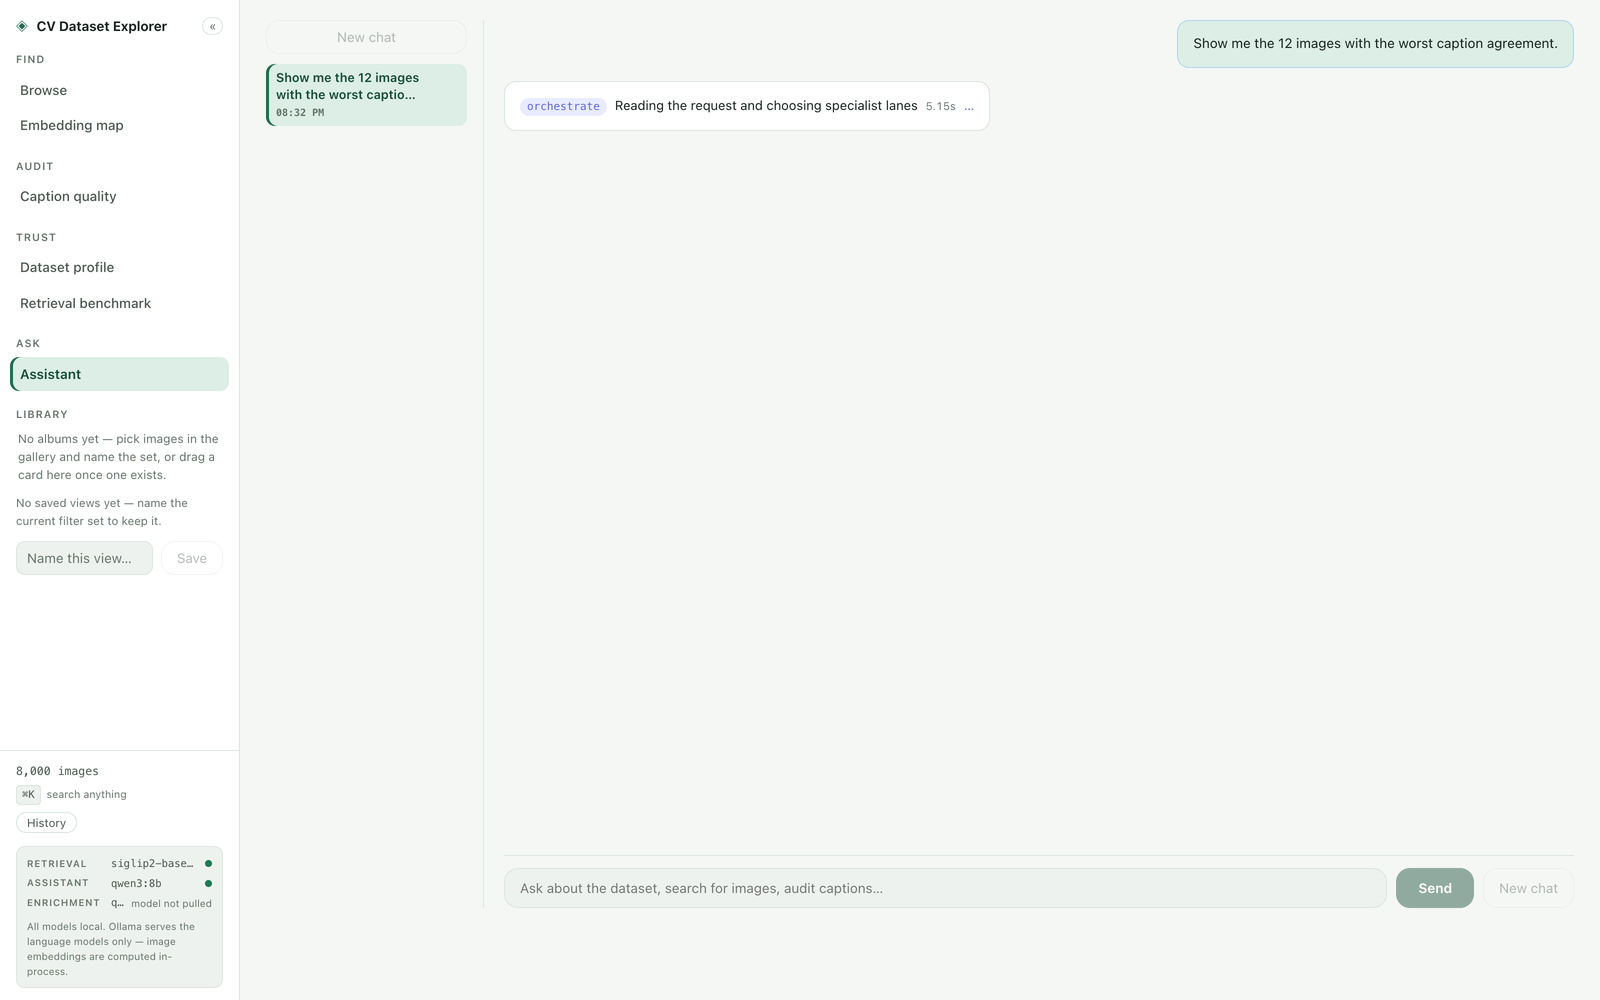
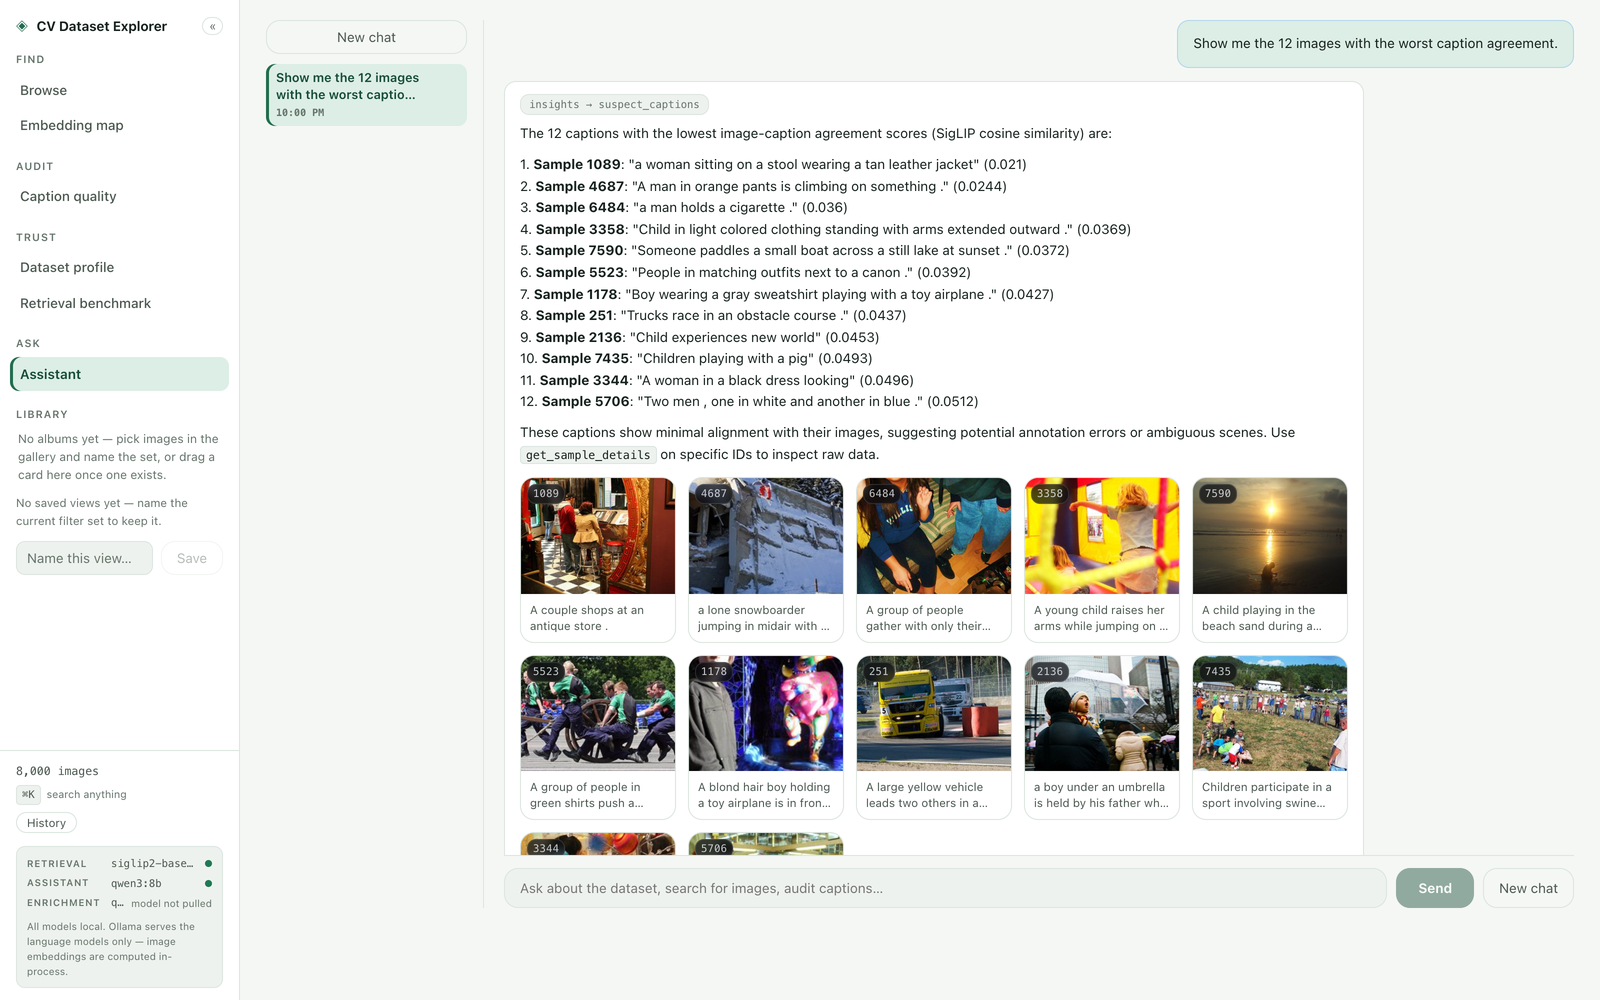
Six claims corrected, and a figure that shows the answer it promises
An independent review read the written record against the running system. What
it found, fixed here.

The assistant figure was a picture of nothing: the capture waited for the
typing indicator to detach, but the live trace replaced that element the moment
the graph reports its first step, so the shot fired five seconds into a running
turn — an empty pane under a caption promising "agent trace and rendered
blocks". It now waits for a completed answer and REFUSES to capture without
one. The figure shows twelve samples with their agreement scores and the block
that renders them.

The keyword-benchmark caveat was backwards. api/eval.py excludes the query
caption's own row precisely so keyword recall is not self-retrieval; the row is
depressed by a strict conjunction that empties 90.6% of candidate lists, not
flattered by leakage. Both README and DESIGN said the opposite of the code.

Three of five SAM2 numbers did not reproduce from the artifact the README
points at: 69 ms is the box-prompt MINIMUM and the p50 is 72, peak memory is
1.5 GB rather than 0.63, and the stability run was 60 calls, not 120.

The map stops citing "published measurements" that no one can check. On a panel
where every other figure is computed from this corpus, an appeal to unnamed
literature was the only unverifiable line; the measured neighbour statistics
beside it make the same point.

Two seams were documented as more complete than they are. EmbeddingIndex.search
[…]

Changed region(s): [[0.3125, 0.093, 0.8438, 0.868], [0.9375, 0.868, 0.9688, 0.899], [0.2188, 0.031, 0.25, 0.062]]

diff --git a/frontend/src/pages/MapPage.tsx b/frontend/src/pages/MapPage.tsx
@@ -521,10 +521,18 @@ export default function MapPage() {
         </summary>
         <ul>
           <li>
+            {/* An earlier version added "published measurements find that well
+                over half of a point's true neighbours are missing here" — no
+                citation, no author, and nothing in this repo measures it. On a
+                panel where every other figure is computed from this corpus, an
+                appeal to unnamed literature was the one unverifiable line. It
+                is gone rather than dressed up: the neighbour statistics below
+                are measured, and they make the point without borrowing. */}
             <strong>Distances are not similarities.</strong> UMAP preserves local
-            neighbourhoods approximately and distorts distance by orders of magnitude.
-            At this scale, published measurements find that well over half of a point's
-            true high-dimensional neighbours are missing from its 2-D neighbourhood.
+            neighbourhoods approximately and distorts distance by orders of
+            magnitude. Two points sitting together here are a hypothesis to
+            check against the measured neighbours on a sample's own page, never
+            a result.
           </li>
           <li>
             <strong>Blob size and spacing mean nothing.</strong> The algorithm

diff --git a/scripts/screenshots.py b/scripts/screenshots.py
@@ -133,11 +133,23 @@ def _ask_assistant(page: Page) -> None:
     box.type("Show me the 12 images with the worst caption agreement.", delay=12)
     page.keyboard.press("Enter")
     try:
-        # The turn is done when the typing indicator goes away. A local 8B model
-        # with tool calls takes 10-60s, well past any default timeout.
-        page.wait_for_selector(".loading-dots", state="detached", timeout=120_000)
+        # Wait for the ANSWER, not for a spinner to leave. `.loading-dots` is
+        # only the pre-first-step placeholder now — the live trace replaces it
+        # the moment the graph reports `orchestrate`, so detaching it fired the
+        # capture 5 s into a running turn and produced a figure of an empty
+        # pane under a caption promising an answer and rendered blocks.
+        page.wait_for_function(
+            """() => {
+                if (document.querySelector('.live-trace')) return false;
+                const t = [...document.querySelectorAll('.chat-turn.assistant .chat-text')];
+                const last = t[t.length - 1];
+                return !!last && last.innerText.trim().length > 60;
+            }""",
+            timeout=180_000)
     except PWTimeout:
-        print("    (assistant still thinking — capturing as-is)")
+        raise SystemExit(
+            "    assistant produced no completed answer in 180s — refusing to "
+            "capture a figure of an empty chat. Warm the model and re-run.")
     page.wait_for_timeout(1200)
     # The pane auto-scrolls to the newest content, which puts the question
     # off-screen and leaves a figure of an answer to nothing. Pull the user turn

diff --git a/README.md b/README.md
@@ -216,8 +216,8 @@ most one text-encoder forward pass. Retrieval is an exact NumPy cosine scan —
 measured at ~0.2 ms against the 7–8 ms encode it waits behind, so at this size
 an approximate index would trade recall to speed up the fastest stage of the
 query. The seam is there rather than the machinery: `EmbeddingIndex.search`
-takes a candidate mask, so an ANN index drops in behind the same signature when
-the corpus earns one — worth *benchmarking* around 100k vectors, with an
+takes a candidate mask, so an ANN index drops in behind the same signature for
+text search — worth *benchmarking* around 100k vectors, with an
 *estimated* crossover near 400k that is extrapolation, not permission: adoption
 waits on a real FAISS recall-and-latency benchmark against the exact scan. A
 hosted vector database is not
@@ -237,7 +237,7 @@ measurements) · [DESIGN](docs/DESIGN.md) (decisions and trade-offs) ·
 frontend/src/
   pages/          Gallery · Sample · Compare · Map · Stats · Quality · Benchmark · Assistant
   components/     rail, cards, album shelf/header, share menu, render blocks
-  api/            typed client — the only fetch layer
+  api/            typed client — every route the pages call through
 backend/app/
   api/            18 routers over one service layer (run_search is the one ranking impl)
   ml/             providers (SigLIP 2 / Qwen3-VL) · exact index · hubness correction · detector
@@ -251,12 +251,12 @@ scripts/        benchmarks, screenshots, capabilities/link checks
 ## Test evidence
 
 ```bash
-cd backend && pytest                  # 352 passed (2026-07-28)
+cd backend && pytest                  # 369 passed (2026-07-28)
 cd frontend && npx tsc --noEmit && npm run build
 cd backend && python ../scripts/ui_smoke.py   # real-Chrome sweep, 17 workflows
 ```
 
-The last full sweep at this commit: **104/104 checks across 17/17 workflows**
+The last full sweep at this commit: **106/106 checks across 17/17 workflows**
 (run id in `backend/data/qa/`). Re-run rather than quote — the registry grows,
 and every number above is only true of the day it was measured. CI runs the
 light install (no torch/langgraph — those modules skip), ruff, tsc, the build,
@@ -270,16 +270,21 @@ the link check and the capabilities contract.
 - The composed (reference-steered) ranking is unmeasured — the benchmark
   covers the text modes only; its blend weight is chosen, not tuned, and the
   code says so.
-- The keyword benchmark row is flattered by construction (query captions are
-  indexed); the benchmark page states this where the number appears.
+- The keyword benchmark row is *understated*, not flattered: the query caption's
+  own row is excluded from the FTS scan (otherwise it would measure nothing but
+  self-retrieval), and the strict AND conjunction then leaves 90.6% of candidate
+  lists empty, so keyword R@10 reads 3.6%. OR-ing the terms takes it to 53.0%
+  but lowers fused MRR on short queries, which is why the conjunction stays —
+  measured in `api/eval.py` and stated on the page where the number appears.
 - The assistant needs Ollama and a ~5 GB model; step transitions stream live,
   but the reply text itself arrives whole at the end of the run.
-- Detection is boxes only. SAM 2.1 tiny runs here at 69 ms/mask warm (p50 on an
-  otherwise idle machine, box or point prompt, 0.63 GB, 120 interleaved calls
-  with no crash or leak) and its masks are accurate, but it stays future work:
-  a background-erased cut-out changes 63% of the top-10 while a caption-word
-  proxy moves the on-target share by +0.01 — a different ranking, not a better
-  one. `scripts/bench_sam2.py` re-measures all of it.
+- Detection is boxes only. SAM 2.1 tiny runs here at 72 ms/mask warm (box-prompt
+  p50; 73 ms by point prompt, 1.5 GB peak, 60 interleaved calls with no crash
+  and 2 MB of drift) and its masks are accurate, but it stays future work: a
+  background-erased cut-out changes 63% of the top-10 while a caption-word proxy
+  moves the on-target share by +0.009 — a different ranking, not a better one,
+  and 16 regions is too few to call it worse. `scripts/bench_sam2.py` re-measures
+  every figure here into `backend/data/cache/bench_sam2.json`.
 - MCP is stateless JSON (no SSE streaming, no sessions); it binds to the same
   local server and adds no authentication — a local, single-user tool by the
   assignment's constraint.

diff --git a/docs/ARCHITECTURE.md b/docs/ARCHITECTURE.md
@@ -125,9 +125,20 @@ Adoption is justified by that benchmark, never by this extrapolation and never
 by the word "vector" -- an approximate index trades recall for speed, and the
 trade has to be shown to be worth it on the data it will serve.
 
-The substitution is local either way: `EmbeddingIndex.search` already takes an
-`allowed_ids` candidate mask, so an ANN index drops in behind the same signature
-without the API changing.
+The substitution is local for TEXT SEARCH: `EmbeddingIndex.search` already takes
+an `allowed_ids` candidate mask, so an ANN index drops in behind the same
+signature without the API changing.
+
+It is not yet the single seam for everything, and that is worth stating plainly
+because it is the first thing an ANN swap would trip over. Composed search,
+region search and the retrieval benchmark rank by reaching into
+`index.embeddings` directly (`api/search.py` in `_composed_ranking` and the
+by-region path, `api/eval.py` in its scoring loop) — `_composed_ranking` even
+hand-copies the candidate mask that `ml/index.py` documents as the seam.
+Swapping in an approximate index today would leave two retrieval paths in the
+product, with the benchmark measuring the one you no longer ship. Routing those
+three through `EmbeddingIndex.search` is the prerequisite for the scale path
+above, not a tidy-up after it.
 
 Two things this repo deliberately does NOT do, so the reasoning is on the record
 rather than rediscovered:

diff --git a/docs/DEMO.md b/docs/DEMO.md
@@ -110,7 +110,7 @@ The `qa` specialist runs alone (it is marked expensive, so it is never chosen
 speculatively alongside another lane). It drives real Chrome over every registered
 workflow and returns a status block inline:
 
-- a `DONE` badge and the pass count — **104/104 checks · 17/17 workflows** on run
+- a `DONE` badge and the pass count — **106/106 checks · 17/17 workflows** on run
   `20260728-155424-154f`, the last full sweep recorded in `backend/data/qa/`;
   the registry grows, so expect a different denominator;
 - one row per workflow — Routes, Gallery, Similarity map, Statistics, Quality,
@@ -123,7 +123,7 @@ workflow and returns a status block inline:
   (18 slides, ~12 MB on that run): a title slide with the tally, then one slide
   per workflow with its status, screenshot and checks.
 
-Observed on that run: 79 s wall clock, 104/104 checks, 17/17 flows, no console
+Observed on that run: 106/106 checks, 17/17 flows, no console
 errors. A good chunk of that is the *Assistant canvas* flow, which waits on the
 local model to route a request and produce a chart.
 
@@ -154,7 +154,7 @@ cd backend && uv run --with playwright --with python-pptx \
     --python .venv/bin/python python ../scripts/ui_smoke.py
 #   PASS  route /
 #   ...
-#   104/104 checks passed in 91s
+#   106/106 checks passed
 ```
 
 ---

diff --git a/docs/TECHNICAL.md b/docs/TECHNICAL.md
@@ -765,8 +765,8 @@ backend fails `tsc` in the frontend until a renderer exists. See
 
 | Tier | What | Count |
 |---|---|---|
-| `backend/tests/` | API contracts, degraded modes, id-list limits, provider resolution/fallback, agent graph (parallelism, lane isolation, timeouts), embedder concurrency, block validation | **352 passed** locally (2026-07-28); CI's light install skips the torch/langgraph modules |
-| `scripts/ui_smoke.py` | Real Chrome over every workflow, screenshots, console errors, 4xx/5xx | **17 workflows registered**; the last full sweep passed 104/104 checks in 79 s (run 20260728-155424-154f) |
+| `backend/tests/` | API contracts, degraded modes, id-list limits, provider resolution/fallback, agent graph (parallelism, lane isolation, timeouts), embedder concurrency, block validation | **369 passed** locally (2026-07-28); CI's light install skips the torch/langgraph modules |
+| `scripts/ui_smoke.py` | Real Chrome over every workflow, screenshots, console errors, 4xx/5xx | **17 workflows registered**; the last full sweep passed 106/106 checks (run 20260728-215616-f391) |
 | `python scripts/capabilities.py --check` | Fails when the docs drift from the running system | — |
 
 The backend figure is what GitHub Actions reports on the light install described

diff --git a/docs/DESIGN.md b/docs/DESIGN.md
@@ -66,8 +66,10 @@ Flickr8k's captions are retrieval ground truth: querying with a caption should
 return its own image (the standard published protocol for this dataset). The
 Benchmark tab computes recall@1/5/10 for semantic, keyword, and hybrid modes —
 so the choice of hybrid-by-default is *measured*, not asserted. The honest
-caveat is stated in the UI: keyword recall is flattered because query captions
-are literally indexed; semantic recall is the generalization signal.
+caveat is stated in the UI, and it runs the other way: the query caption's own
+row is excluded from the lexical scan, so keyword recall is *depressed* by a
+strict conjunction that returns an empty candidate list for most queries, not
+flattered by self-retrieval. Semantic recall is the generalization signal.
 
 ### The assistant: Fugu-style orchestration as a *layer*, not the engine
 The optional Assistant runs a LangGraph multi-agent graph inspired by Sakana's

diff --git a/docs/DEPLOY.md b/docs/DEPLOY.md
@@ -220,7 +220,7 @@ were untouched:
 **The test suite is not green inside this image**, and the reason is worth
 stating rather than hiding: `docker compose exec backend python -m pytest -q`
 gave **290 passed, 8 failed, 2 skipped** when this was measured — a 300-test
-collection, against 352 on the host today, so re-run the command rather than
+collection, against 369 on the host today, so re-run the command rather than
 quote the tally. All 8 failures were in `tests/test_providers.py`, and all 8
 passed on the host.
 
